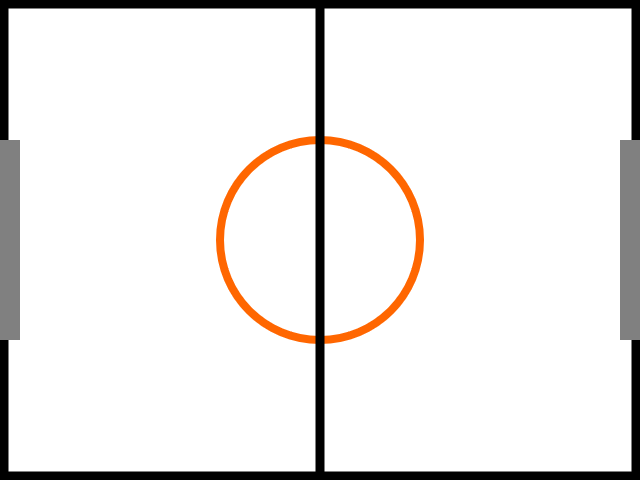
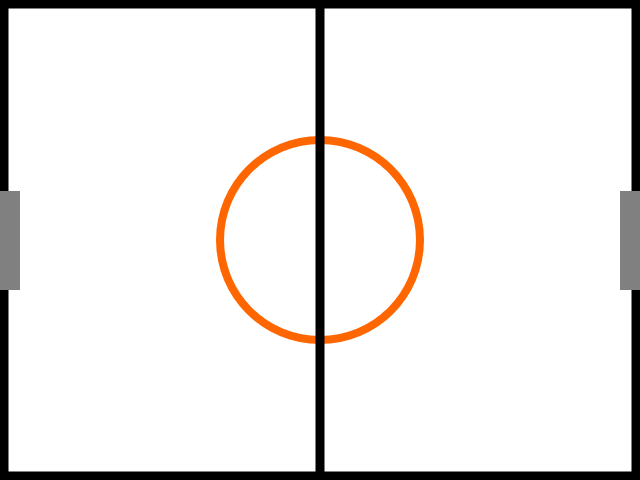
finally fixed puck collision awful

diff --git a/src/airhockey.py b/src/airhockey.py
@@ -5,10 +5,11 @@ import pygame
 
 PLAYERSIZE = (64, 64)
 PUCKSIZE = (64, 64)
-GOALBOUNDS = (20, 100)
-PUCKMAXSPEED = 50
-
-
+GOALBOUNDS = (10, 100)
+PUCKMINSPEED = 1
+PUCKMAXSPEED = 8
+MAX_SCORE = 7
+BG_IMG = pygame.image.load("img/airhockey/bg.png")
 
 class Player(DrawableObject):
     """
@@ -53,6 +54,7 @@ class Player(DrawableObject):
             self.team = 0
         else:
             self.client_update(data)
+        self.can_hit = True
         self.x_vel = 0
         self.y_vel = 0
         self.sprite = pygame.image.load('img/airhockey/paddle.png')
@@ -103,18 +105,28 @@ class Player(DrawableObject):
 
         if pos[0] <= (WINSIZE[0] / 2) * self.team:
             self.x = (WINSIZE[0] / 2) * self.team
+            self.x_vel = 0
         elif pos[0] >= ((WINSIZE[0] / 2) * (self.team + 1))  - self.bounds[0]:
             self.x = ((WINSIZE[0] / 2) * (self.team + 1)) - self.bounds[0]
+            self.x_vel = 0
         else:
             self.x = pos[0]
 
         if pos[1] < 0:
             self.y = 0
+            self.y_vel = 0
         elif pos[1] >= WINSIZE[1] - self.bounds[1]:
             self.y = WINSIZE[1] - self.bounds[1]
+            self.y_vel = 0
         else:
             self.y = pos[1]
 
+    def reset_pos(self):
+        if self.team == 0:
+            self.x = 0
+        else:
+            self.x = WINSIZE[0]
+        self.y = 240
     def server_update(self, data):
         """
         Runs the game logic on the server
@@ -123,6 +135,48 @@ class Player(DrawableObject):
         if data['id'] != self.id:
             return
         self.move(data['mouse_pos'])
+
+class GameManager(GameObject):
+    """
+    Handles game logic
+
+    Attributes
+    ----------
+    score : int[]
+        The current score
+    """
+
+    def __init__(self):
+        self.score = [0,0]
+        self.type = 'GameManager'
+
+    def client_update(self, data):
+        """
+        Updates the object to match values in the data parameter.
+        This object only updates the score on the client. Not important otherwise
+
+        Parameters
+        ----------
+        data : dict
+            new values for the object.
+        """
+        self.score = data['score']
+
+    def restart(self):
+        self.score = [0,0]
+
+    def get_dict(self):
+        """
+        Returns
+        
+        Parameters
+        ----------
+        data : dict
+            new values for the object.
+        """
+        return {'type': 'GameManager', 'score': self.score}
+    def server_update(self, data):
+        printd(str(self.score))
 
 class Puck(DrawableObject):
     """
@@ -152,8 +206,8 @@ class Puck(DrawableObject):
         self.type = 'Puck'
         self.sprite = pygame.image.load('img/airhockey/puck.png')
         if data == None:
-            self.x = 272
-            self.y = 272
+            self.x = 240
+            self.y = 208
             self.x_vel = 0
             self.y_vel = 0
         else:
@@ -187,32 +241,79 @@ class Puck(DrawableObject):
         """
         Handles player and wall collision.
         """
-        # collision goes here :D
+        puckrect = pygame.Rect(self.x + 10, self.y + 10, PUCKSIZE[0] - 10, PUCKSIZE[1] - 10) # i am lying about the hitbox :)
         for g in game_objects:
             if (g.type == 'Player'):
-                puckrect = pygame.Rect(self.x, self.y, PUCKSIZE[0], PUCKSIZE[1])
                 playerrect = pygame.Rect(g.x, g.y, PLAYERSIZE[0], PLAYERSIZE[1]) 
                 if (puckrect.colliderect(playerrect)):
-                    print('colliding')
-                    self.x_vel = max(min(PUCKMAXSPEED, -g.x_vel), -PUCKMAXSPEED)
-                    self.y_vel = max(min(PUCKMAXSPEED, -g.y_vel), -PUCKMAXSPEED)
-                    self.x += self.x_vel * 1.1
-                    self.y += self.y_vel * 1.1
-        if (self.x <= 0 or self.x >= WINSIZE[0]):
-            self.x_vel *= -1
-        if (self.y <= 0 or self.y >= WINSIZE[1]):
-            self.y_vel *= -1
-            
+                    if (g.can_hit):
+                        print(str(g.x_vel) + " " + str(g.y_vel))
+                        if (g.x_vel == 0):
+                            self.x_vel = -self.x_vel * 0.7
+                        else:
+                            gdir = 1
+                            if (g.x_vel != 0):
+                                gdir = g.x_vel/abs(g.x_vel)
+                            speed = min(abs(g.x_vel/8), PUCKMAXSPEED)
+                            self.x_vel = self.x_vel - speed * gdir
+                        if (g.y_vel == 0):
+                            self.y_vel = -self.y_vel * 0.7
+                        else:
+                            gdir = 1
+                            if (g.y_vel != 0):
+                                gdir = g.y_vel/abs(g.y_vel)
+                            speed = min(abs(g.y_vel/8), PUCKMAXSPEED)
+                            self.y_vel = self.y_vel - speed * gdir
+                        self.x += self.x_vel
+                        self.y += self.y_vel
+                        g.can_hit = False
+                else:
+                    g.can_hit = True
+        if (self.x <= 0):
+            self.x_vel *= -0.7
+            self.x = 0
+        if (self.x + PUCKSIZE[0] >= WINSIZE[0]):
+            self.x_vel *= -0.7
+            self.x = WINSIZE[0] - PUCKSIZE[0]
+        if (self.y <= 0):
+            self.y_vel *= -0.7
+            self.y = 0
+        if (self.y + PUCKSIZE[1] >= WINSIZE[1]):
+            self.y_vel *= -0.7
+            self.y = WINSIZE[1] - PUCKSIZE[1]
+                    
+        goalrect_l = pygame.Rect(-GOALBOUNDS[0]/2, 240 - GOALBOUNDS[1]/2, GOALBOUNDS[0], GOALBOUNDS[1])
+        goalrect_r = pygame.Rect(WINSIZE[0] - GOALBOUNDS[0]/2, 240 - GOALBOUNDS[1]/2, GOALBOUNDS[0], GOALBOUNDS[1])
+        if puckrect.colliderect(goalrect_l):
+            self.score(game_objects, 0)
+        if puckrect.colliderect(goalrect_r):
+            self.score(game_objects, 1)
+    
+    def score(self, game_objects, side):
+        """
+        Handles scoring a goal
+        Side - 0 is left, 1 is right
+        """
+        self.reset_puck(side)
+        for g in game_objects:
+            if (g.type == 'Player'):
+                g.can_hit = 20
+            if (g.type == 'GameManager'):
+                g.score[side] += 1
+                if g.score[side] == MAX_SCORE:
+                    g.restart()
+        print(str(self.score))
+
     def move(self):
         """
         Moves the puck based on the direction and collision status
         """
-        self.x += self.x_vel * 1.1
-        self.y += self.y_vel * 1.1
+        self.x += self.x_vel
+        self.y += self.y_vel
 
-    def reset_puck(self):
-        self.x = 272
-        self.y = 272
+    def reset_puck(self, side):
+        self.x = 208 + (side * PUCKSIZE[0])
+        self.y = 208
         self.x_vel = 0
         self.y_vel = 0
 
@@ -245,6 +346,18 @@ class AirHockeyClient(GameClient):
         """
         super(AirHockeyClient, self).__init__(id, server_host, server_port, game_objects)
         self.key_filter = [ pygame.K_w, pygame.K_a, pygame.K_s, pygame.K_d ]
+        
+    def draw(self):
+        """
+        Draws all DrawableObjects in game_objects to the screen
+        """
+        if self.game_objects == None:
+            return
+        self.screen.blit(BG_IMG, pygame.Rect(0, 0, WINSIZE[0], WINSIZE[1]))
+        for o in self.game_objects:
+            if isinstance(o, DrawableObject):
+                o.draw(self.screen)
+        pygame.display.flip()
 
     def serialize_game_objects(self, data):
         """
@@ -276,7 +389,9 @@ class AirHockeyServer(GameServer):
             the port to bind to
         """
         super(AirHockeyServer, self).__init__(server_host, server_port)
+        self.game_objects.append(GameManager())
         self.game_objects.append(Puck())
+        self.playing = False
 
     def add_client(self, addr):
         """
@@ -316,11 +431,14 @@ class AirHockeyServer(GameServer):
             try:
                 data_dict = json.loads(data)
                 client_id = data_dict['id']
+                if (len(self.clients) > 1):
+                    self.playing = True
                 for o in self.game_objects:
                     if (o.type == 'Puck'):
                         o.server_update(self.game_objects)
                     else:
                         o.server_update(data_dict)
+
             except ValueError as e:
                 printd('Malformed packet received.')
             self.sock.sendto(bytes(json.dumps({'id': client_id, 'game_objects': game_objects_json}), encoding='utf-8'), addr)
